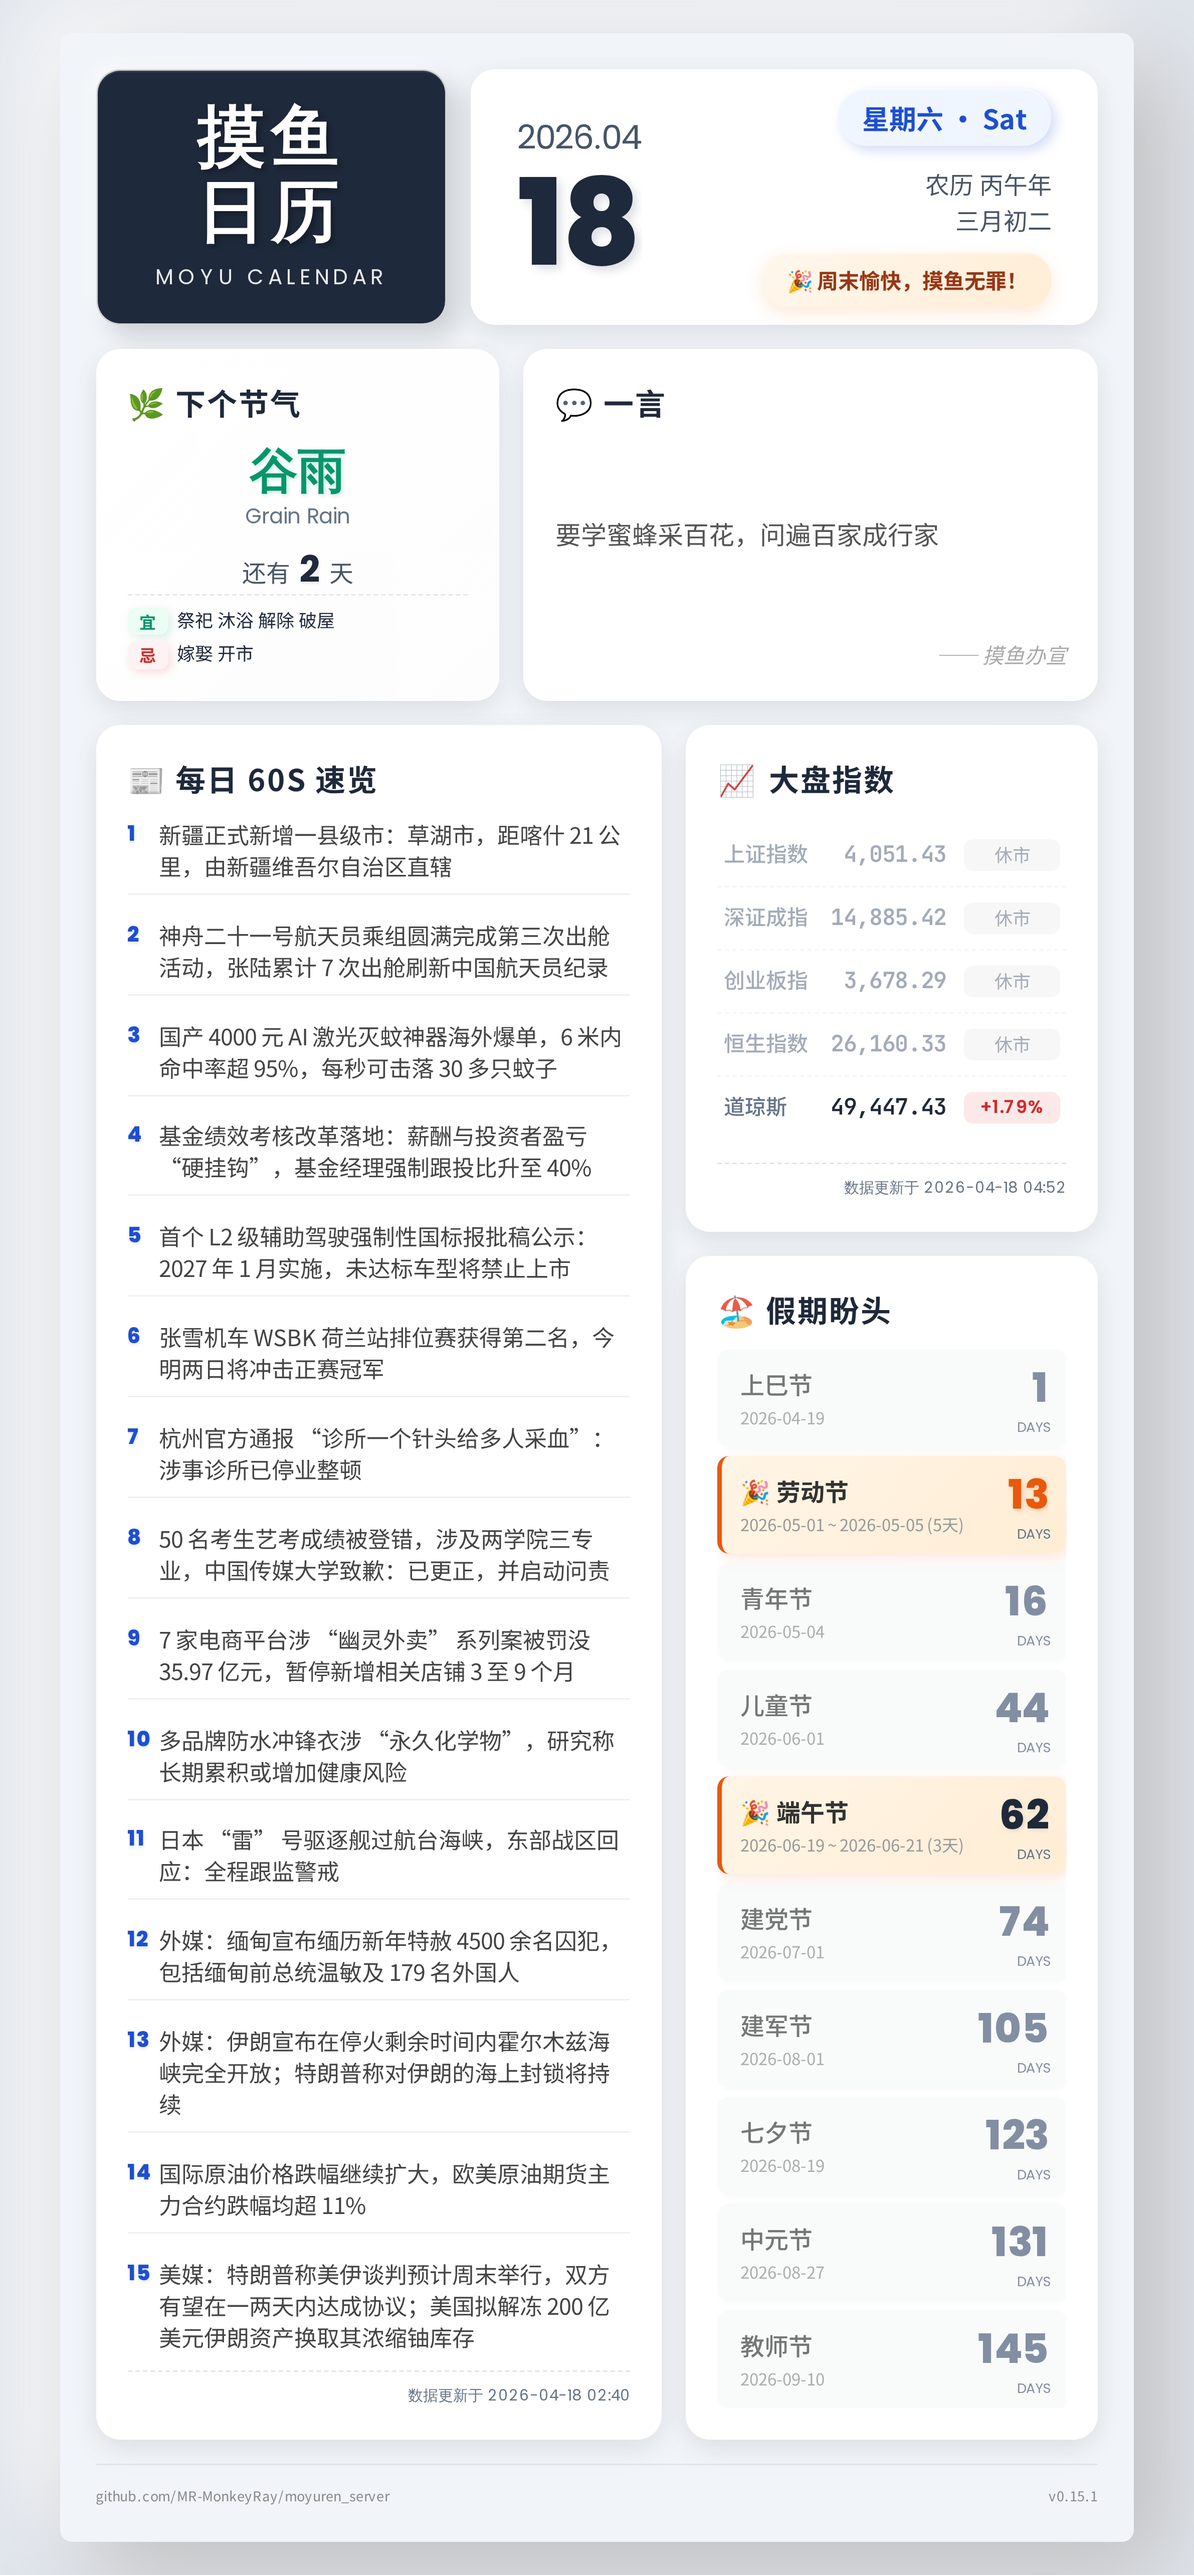
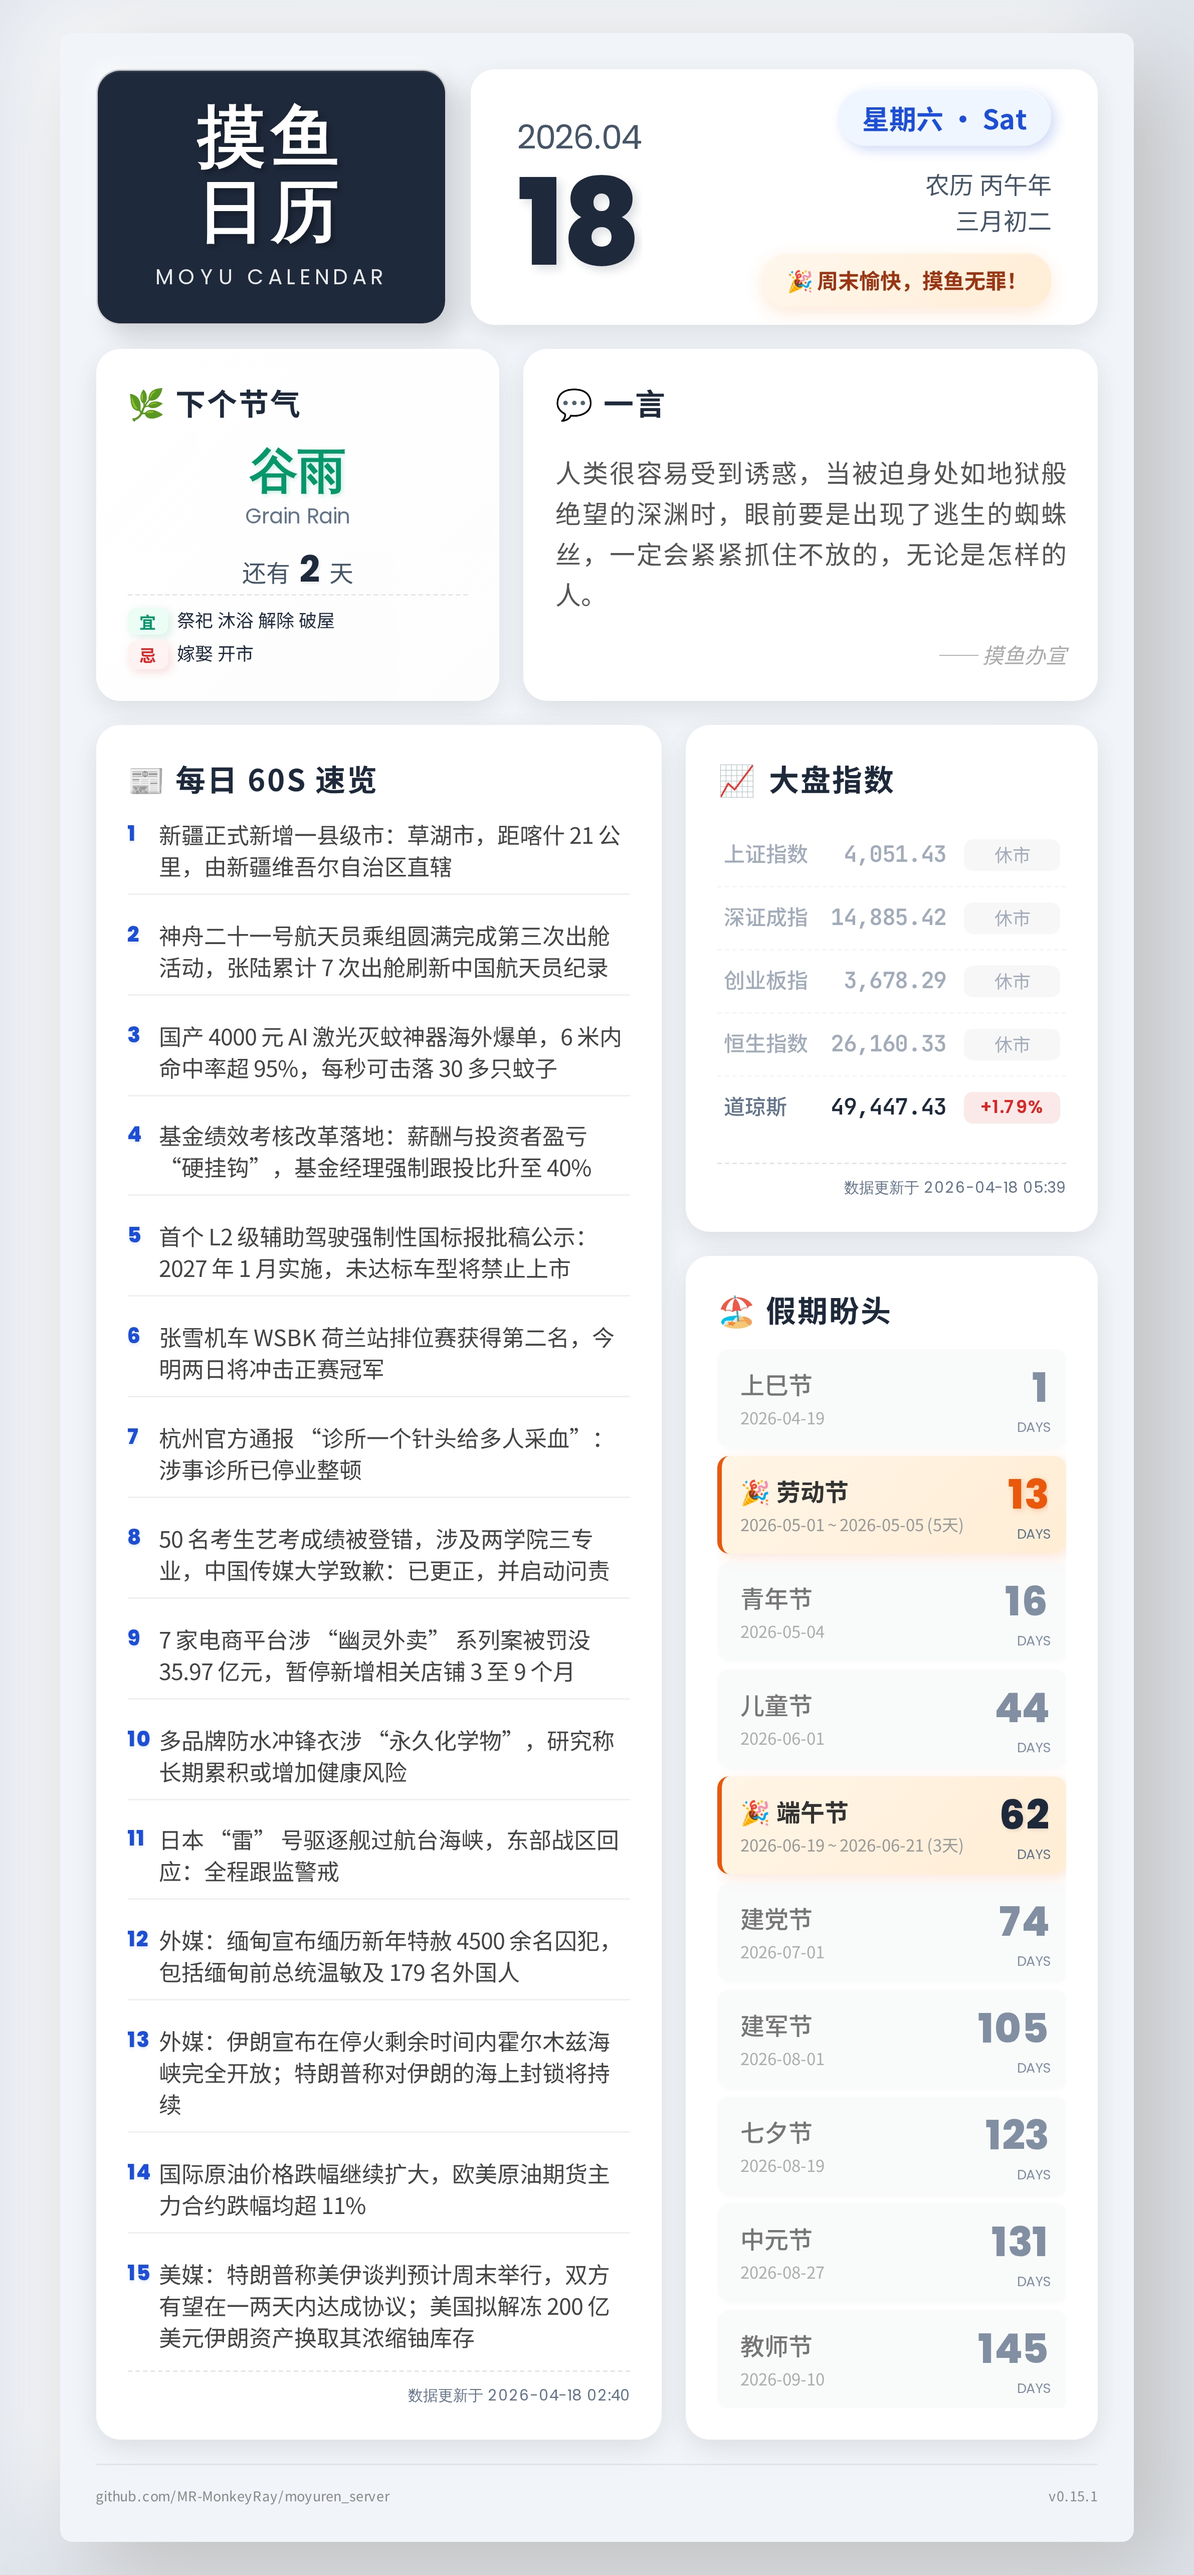
chore: publish 2026-04-18 (efec0ba)

Changed region(s): [[0.466, 0.1558, 0.9009, 0.2181]]

diff --git a/2026-04-18/data.md b/2026-04-18/data.md
@@ -37,6 +37,6 @@
 
 > **💬 一言**
 >
-> 要学蜜蜂采百花，问遍百家成行家
+> 人类很容易受到诱惑，当被迫身处如地狱般绝望的深渊时，眼前要是出现了逃生的蜘蛛丝，一定会紧紧抓住不放的，无论是怎样的人。
 
-*更新时间: 2026/04/18 04:52:29*
+*更新时间: 2026/04/18 05:39:09*

diff --git a/latest.md b/latest.md
@@ -37,6 +37,6 @@
 
 > **💬 一言**
 >
-> 要学蜜蜂采百花，问遍百家成行家
+> 人类很容易受到诱惑，当被迫身处如地狱般绝望的深渊时，眼前要是出现了逃生的蜘蛛丝，一定会紧紧抓住不放的，无论是怎样的人。
 
-*更新时间: 2026/04/18 04:52:29*
+*更新时间: 2026/04/18 05:39:09*
